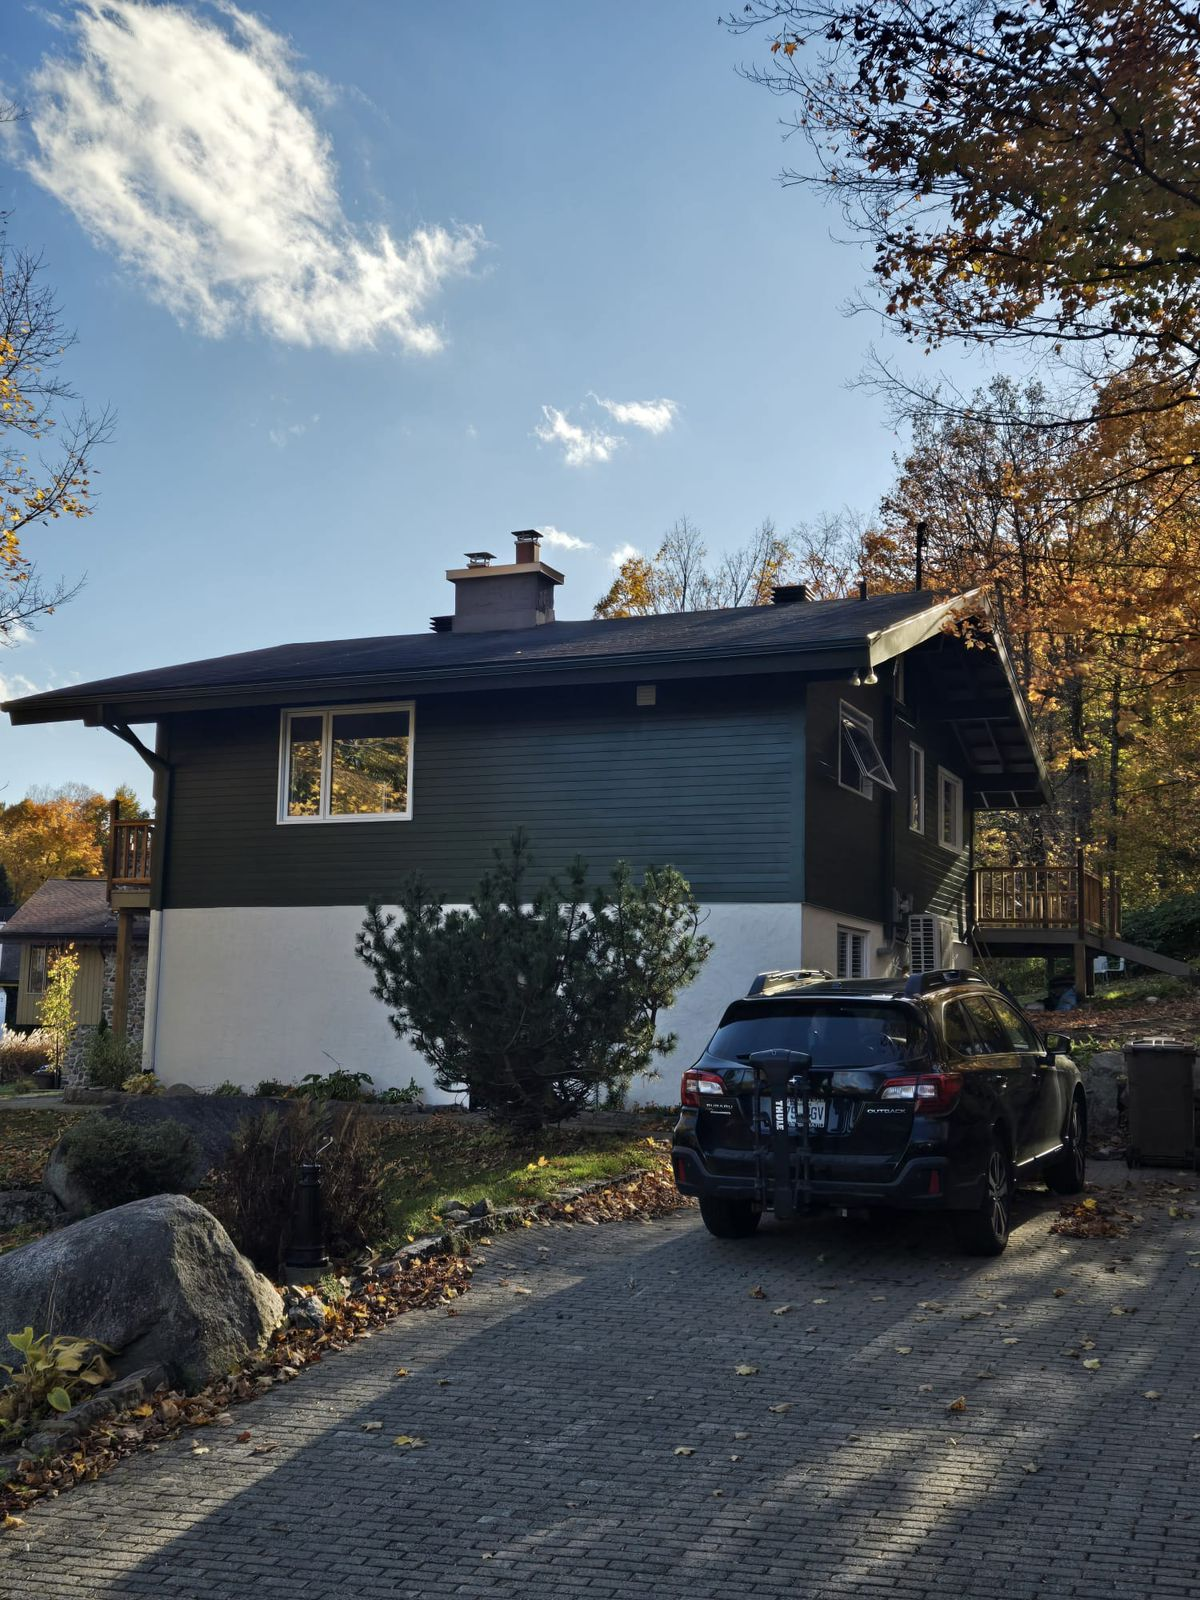
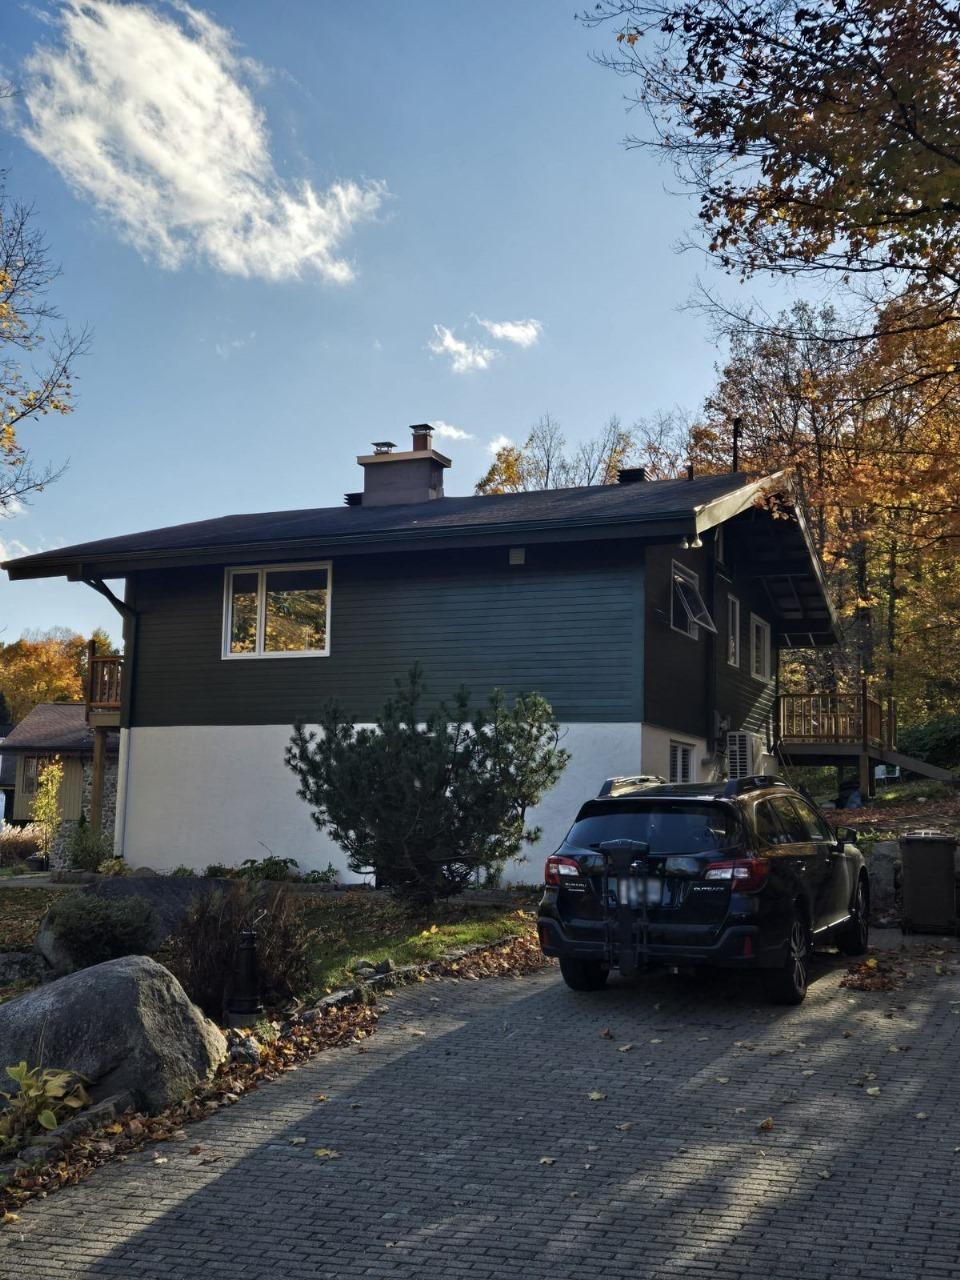
UI CHANGES

Changed region(s): [[0.625, 0.6875, 0.6875, 0.7188]]

diff --git a/index.html b/index.html
@@ -16,7 +16,9 @@
     <link rel="preconnect" href="https://fonts.googleapis.com">
     <link rel="preconnect" href="https://fonts.gstatic.com" crossorigin>
     <link href="https://fonts.googleapis.com/css2?family=Montserrat:ital,wght@0,100..900;1,100..900&display=swap" rel="stylesheet">
-    <link rel="stylesheet" href="css/owl.carousel.css">
+    <!-- owl link -->
+    <link rel="stylesheet" href="https://cdnjs.cloudflare.com/ajax/libs/OwlCarousel2/2.3.4/assets/owl.carousel.min.css" />
+    <link rel="stylesheet" href="https://cdnjs.cloudflare.com/ajax/libs/OwlCarousel2/2.3.4/assets/owl.theme.default.min.css" />
 </head>
 
 <body>
@@ -65,7 +67,7 @@
               </li>
             </ul>
             <form class="d-flex">
-              <a class="custom-button" href="./contact-us.html" target="_blank">GET A QUOTE</a>
+              <a class="custom-button" href="./contact-us.html" target="_blank">GET A CONSULTATION</a>
             </form>
           </div>
         </div>
@@ -81,7 +83,7 @@
         <h1 class="text-uppercase">Whether you're planning a residential or commercial painting project, we’re here to ensure the process is smooth and the outcome exceeds expectations.
 </h1>
         <!-- <div class="desc">An optional description</div> -->
-        <a class="custom-button mt-5" href="./contact-us.html" target="_blank">GET A QUOTE</a>
+        <a class="custom-button mt-5" href="./contact-us.html" target="_blank">GET A CONSULTATION</a>
         <p class="mt-3 text-uppercase  gurantee"> 5 to 15 years guarantee 
         </p>
       </div>
@@ -94,7 +96,7 @@
       <div class="row">
         <div class="col-md-6">
           <div class="title ">
-            <h3 class="text-uppercase "> PROUDLY SERVING toronto  AND  SURROUNDING AREAS</h3>
+            <h3 class="text-uppercase text-gold"> PROUDLY SERVING toronto  AND  SURROUNDING AREAS</h3>
           </div>
         </div>
         <div class="col-md-6">
@@ -118,7 +120,7 @@
         </div>
         <div class="col-md-6  direction">
           <div class="title margin-left-center title-detail">
-            <h3 >Interior Painting – Create a Space That Reflects You</h3>
+            <h3 class="text-gold">Interior Painting – Create a Space That Reflects You</h3>
             <p class="mt-4 text-black">A fresh coat of paint can completely transform the look and feel of your home. Whether you're refreshing a single room, updating your entire home, or setting the tone for a new design, our team is here to guide you every step of the way. We use high-quality, low-odor, durable paints to deliver a smooth, flawless finish tailored to your style. Trust our expertise to transform your interiors with care, precision, and a clean, professional touch.</p>
          
             <!-- <a href="#." class="learn-more">Learn More <span class="ms-1 mt-1"> <i
@@ -135,10 +137,21 @@
     <div class="extra-sec mt-3 pb-3 pt-2">
   
       <div class="container d-flex gap-5 justify-content-center p-3 text-center flex-wrap mobile-gap">
-  <img src="images/Sherwin-Williams_logo_wordmark.png" alt="" class="img-fluid sub-logo">
-   <img src="images/evo-tect.png" alt="" class="img-fluid sub-logo">
-    <img src="images/Benjamin-logo.png" alt="" class="img-fluid sub-logo">
-     <img src="images/betonel-vertical-square.png" alt="" class="img-fluid sub-logo">
+         <div class="owl-carousel owl-theme justify-content-center d-flex">
+                    <div class="item">
+                        <img src="images/Sherwin-Williams_logo_wordmark.png" alt="" class="img-fluid sub-logo">
+                    </div>
+                    <div class="item">
+                   <img src="images/evo-tect.png" alt="" class="img-fluid sub-logo">
+                    </div>
+                    <div class="item">
+                        <img src="images/Benjamin-logo.png" alt="" class="img-fluid sub-logo">
+                    </div>
+                    <div class="item">
+                     <img src="images/betonel-vertical-square.png" alt="" class="img-fluid sub-logo">
+                    </div>
+    
+                </div>
       </div>
 
     </div>
@@ -147,7 +160,7 @@
         <div class="col-md-6 d-flex justify-content-center direction ps-0">
         
           <div class="title card-wrap title-detail">
-            <h3 class="w-100">Exterior Painting – Our Specialty, Your Home’s First Impression</h3>
+            <h3 class="w-100 text-gold">Exterior Painting – Our Specialty, Your Home’s First Impression</h3>
             <p class="para">Exterior painting is not just what we do — it’s what we do best. Our team specializes in transforming homes and buildings with long-lasting, weather-resistant finishes that protect and enhance curb appeal. From siding and trim to doors and shutters, we use premium products and expert techniques to ensure a clean, durable result that stands up to the elements. Whether your exterior needs a full makeover or a fresh update, we deliver top-quality craftsmanship with a flawless finish — every time.</p>
             <!-- <a href="#." class="learn-more">Learn More <span class="ms-1 mt-1"> <i
                   class="fas fa-long-arrow-alt-right"></i></span></a> -->
@@ -156,6 +169,7 @@
         <div class="col-md-6">
           <div class="slide-img d-flex wrap-flex">
             <img src="images/exterior-img.jpg" alt="">
+            <img src="images/home-2.jpg" alt="">
           </div>
         </div>
       </div>
@@ -197,7 +211,7 @@ Breathe new life into your kitchen or bathroom without the cost of a full renova
       <div class="row  margin-top">
         <div class="col-md-6">
           <div class="title padding-0">
-            <h3>
+            <h3 class="text-gold">
               OUR PAINTING PROCESS</h3>
           </div>
         </div>
@@ -331,9 +345,38 @@ Breathe new life into your kitchen or bathroom without the cost of a full renova
 
 
   <!-- navbar start -->
-
-  <!-- <script src="https://cdn.jsdelivr.net/npm/bootstrap@5.0.2/dist/js/bootstrap.bundle.min.js" integrity="sha384-MrcW6ZMFYlzcLA8Nl+NtUVF0sA7MsXsP1UyJoMp4YLEuNSfAP+JcXn/tWtIaxVXM" crossorigin="anonymous"></script> -->
-  <!-- <script src="https://cdn.jsdelivr.net/npm/@popperjs/core@2.9.2/dist/umd/popper.min.js" integrity="sha384-IQsoLXl5PILFhosVNubq5LC7Qb9DXgDA9i+tQ8Zj3iwWAwPtgFTxbJ8NT4GN1R8p" crossorigin="anonymous"></script> -->
+   <!-- owl caresoul script start -->
+    <script src="https://cdnjs.cloudflare.com/ajax/libs/jquery/3.6.0/jquery.min.js"></script>
+    <script src="https://cdnjs.cloudflare.com/ajax/libs/OwlCarousel2/2.3.4/owl.carousel.min.js"></script>
+    <script>
+      $('.owl-carousel').owlCarousel({
+    loop:true,
+    margin:10,
+    responsiveClass:true,
+    autoplay:true,
+      autoplayTimeout: 3000, // Slide change after 2 seconds (1000 = 1 sec)
+    autoplaySpeed: 800, 
+    responsive:{
+        0:{
+            items:1,
+            nav:false,
+            dot: false,
+        },
+        600:{
+            items:2,
+            nav:false,
+            dot: false,
+        },
+        1000:{
+            items:4,
+            nav:true,
+            loop: true
+        }
+    }
+})
+    </script>
+  <!-- <script src="https://cdn.jsdelivr.net/npm/bootstrap@5.0.2/dist/js/bootstrap.bundle.min.js" integrity="sha384-MrcW6ZMFYlzcLA8Nl+NtUVF0sA7MsXsP1UyJoMp4YLEuNSfAP+JcXn/tWtIaxVXM" crossorigin="anonymous"></script> 
+<script src="https://cdn.jsdelivr.net/npm/@popperjs/core@2.9.2/dist/umd/popper.min.js" integrity="sha384-IQsoLXl5PILFhosVNubq5LC7Qb9DXgDA9i+tQ8Zj3iwWAwPtgFTxbJ8NT4GN1R8p" crossorigin="anonymous"></script> -->
   <script src="https://cdn.jsdelivr.net/npm/bootstrap@5.0.2/dist/js/bootstrap.min.js"
     integrity="sha384-cVKIPhGWiC2Al4u+LWgxfKTRIcfu0JTxR+EQDz/bgldoEyl4H0zUF0QKbrJ0EcQF"
     crossorigin="anonymous"></script>

diff --git a/css/style.css b/css/style.css
@@ -22,7 +22,7 @@ li.nav-item {
 .navbar-nav .nav-link {
     z-index: 9999999;
     position: relative;
-     color: gold !important;
+     color: black !important;
     font-weight: 600;
     font-size: 16px;
     cursor: pointer;
@@ -144,6 +144,10 @@ padding: 0.8rem 0;
     align-items: center;
     text-align: center;
   }
+  .text-gold{
+    color: #D3AF37;
+    font-weight: 600 !important;
+  }
   @media (max-width: 767px) {
     .hero-video .callout {
       width: 90%;
@@ -158,11 +162,11 @@ padding: 0.8rem 0;
     touch-action: manipulation;
     width: 100%;
     transition: all 0.3s;
-    background: gold;
+    background: #D3AF37;
     color: black;
     text-decoration: none;
     text-decoration: none;
-    width: 200px;
+    width: 240px;
     text-align: center;
     height: 50px;
     display: flex;
@@ -196,7 +200,7 @@ padding: 0.8rem 0;
     position: absolute;
     bottom: -11px;
     height: 4px;
-    background-color: black;
+    background-color: #D3AF37;
     width: 120px;
     left: 3px;
     border-radius: 4px;
@@ -232,7 +236,7 @@ padding: 0.8rem 0;
     color: rgb(29, 28, 28);
   }
   .extra-sec{
-    background-color: gold;
+    background-color: #D3AF37;
   }
   .card-wrap{
     background-color: white;
@@ -243,9 +247,10 @@ padding: 0.8rem 0;
     padding-left: 5rem;
   }
  img.img-fluid.sub-logo {
-    height: 50px;
+    height: 60px;
     transition: 0.4s;
     cursor: pointer;
+    width: 152px !important;
 }
  img.img-fluid.sub-logo:hover{
    transform: scale(1.09);
@@ -256,7 +261,7 @@ padding: 0.8rem 0;
   }
   .slide-img img{
     height: 100%;
-    width:  75%;
+    width:  50%;
   }
   .para{
     font-size: 18px;
@@ -270,7 +275,7 @@ padding: 0.8rem 0;
     font-size: 1.9rem !important;
   }
   .bg{
-    background-color: gold;
+    background-color: #D3AF37;
     padding: 2rem 1rem;
         min-height: 25rem;
   }
@@ -299,7 +304,7 @@ padding: 0.8rem 0;
     font-weight: 300;
   }
   .card-detail{
-    background-color: gold;
+    background-color: #D3AF37;
     border: 2px solid white;
     padding: 2rem;
     margin-top: -14px;
@@ -444,7 +449,7 @@ footer{
 }
 .gurantee{
   font-size: 20px;
-   color: gold !important;
+   color: black !important;
     font-weight: 600;
 }
 .contact-us-link ul li{

diff --git a/contact-us.html b/contact-us.html
@@ -63,7 +63,7 @@
               </li>
             </ul>
             <form class="d-flex">
-              <a class="custom-button" href="./contact-us.html" target="_blank">GET A QUOTE</a>
+              <a class="custom-button" href="./contact-us.html" target="_blank">GET A CONSULTATION</a>
             </form>
           </div>
         </div>
@@ -81,8 +81,8 @@
             <div class="row">
                 <div class="col-md-6">
                     <div class="title">
-                        <h3 class="text-uppercase"> 
-                            GET A QUOTE</h3>
+                        <h3 class="text-uppercase text-gold"> 
+                            GET A CONSULTATION</h3>
                         <p class="mt-3 text-uppercase gurantee"> 5 To 15 years guarantee 
                         </p>
                       </div>
